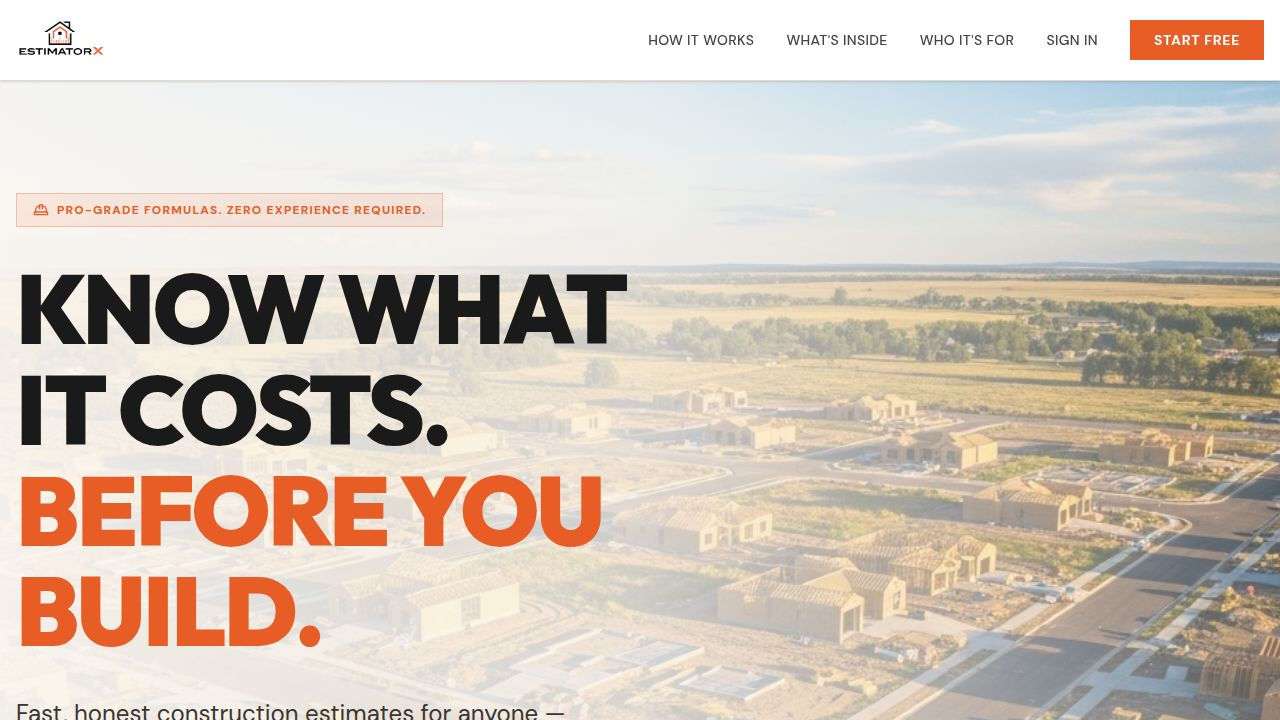
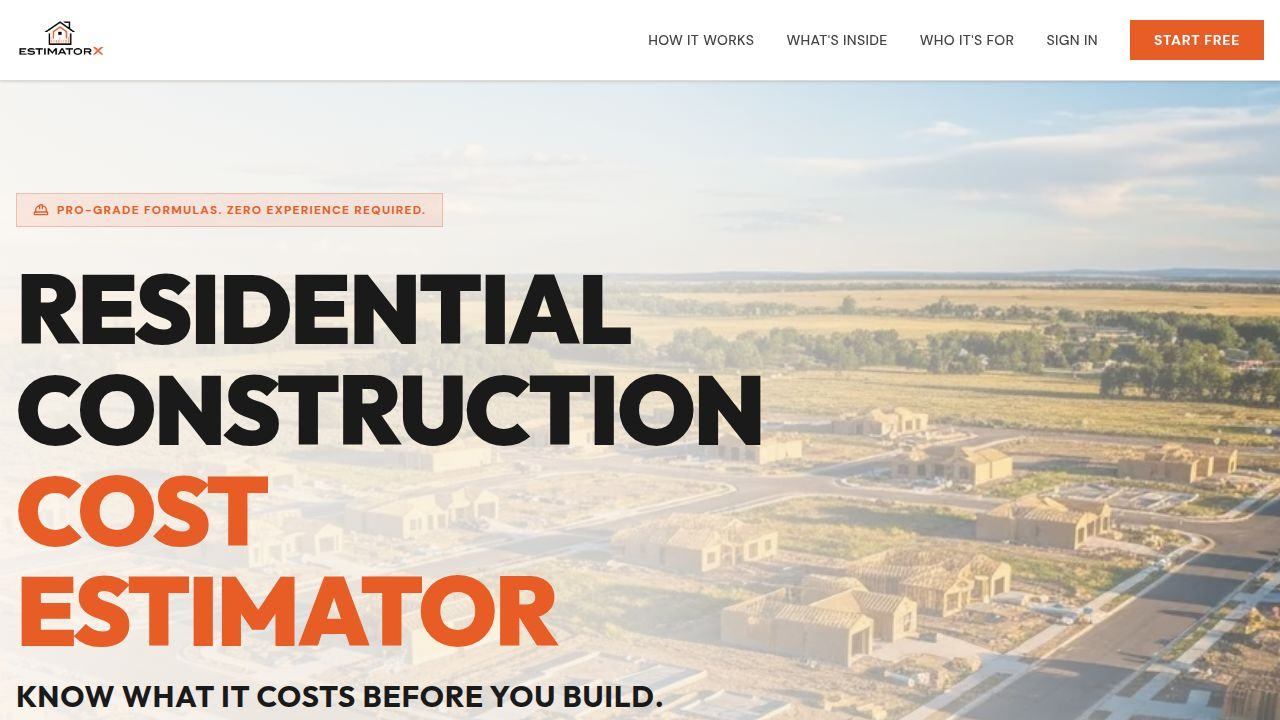
Add privacy policy and terms of use pages to the website
Introduce new routes for `/privacy` and `/terms` in `App.tsx`, add corresponding links in `Home.tsx`, update `sitemap.xml`, and configure production rewrites in `.replit-artifact/artifact.toml`.

Replit-Commit-Author: Agent
Replit-Commit-Session-Id: 35fd20d4-bce7-4242-9382-c4f480dcea7c
Replit-Commit-Checkpoint-Type: full_checkpoint
Replit-Commit-Event-Id: d5b4ff6a-4300-42fe-b2a1-05071733350c
Replit-Commit-Screenshot-Url: https://storage.googleapis.com/screenshot-production-us-central1/ff66d511-2eab-496f-80e5-bc8b0cd5845d/35fd20d4-bce7-4242-9382-c4f480dcea7c/Wzx9fA6
Replit-Helium-Checkpoint-Created: true

Changed region(s): [[0.0, 0.3361, 1.0, 1.0], [0.8438, 0.2444, 0.875, 0.275]]

diff --git a/artifacts/estimatorx/src/pages/PrivacyPolicy.tsx b/artifacts/estimatorx/src/pages/PrivacyPolicy.tsx
@@ -1,0 +1,138 @@
+import { Link } from "wouter";
+
+const EFFECTIVE = "June 5, 2026";
+const CONTACT = "[email redacted]";
+const DOMAIN = "https://estimatorx.pro";
+
+function Section({ title, children }: { title: string; children: React.ReactNode }) {
+  return (
+    <div className="mb-10">
+      <h2 className="text-xl font-black font-serif uppercase mb-4 text-[#1A1A1A] border-l-4 border-[#E85D26] pl-4">{title}</h2>
+      <div className="text-[#3A3530] leading-relaxed space-y-4">{children}</div>
+    </div>
+  );
+}
+
+export default function PrivacyPolicy() {
+  return (
+    <div className="min-h-[100dvh] bg-[#F7F4F0] text-[#1A1A1A]">
+
+      {/* Header */}
+      <header className="sticky top-0 z-50 w-full border-b border-[#E0DAD3] bg-white shadow-sm">
+        <div className="container mx-auto px-4 h-20 flex items-center justify-between">
+          <Link href="/">
+            <img src="/logo.png" alt="EstimatorX.pro Logo" className="h-16 object-contain" />
+          </Link>
+          <Link href="/" className="text-sm font-bold uppercase tracking-wider text-[#444] hover:text-[#E85D26] transition-colors">
+            ← Back to Home
+          </Link>
+        </div>
+      </header>
+
+      <main className="container mx-auto px-4 py-16 max-w-3xl">
+
+        {/* Title block */}
+        <div className="mb-12">
+          <div className="flex items-center gap-3 mb-4">
+            <div className="w-12 h-[2px] bg-[#E85D26]" />
+            <span className="text-[#E85D26] font-bold uppercase tracking-widest text-sm">Legal</span>
+          </div>
+          <h1 className="text-4xl md:text-5xl font-black font-serif uppercase mb-4">Privacy Policy</h1>
+          <p className="text-[#888] text-sm">Effective Date: {EFFECTIVE} &nbsp;·&nbsp; <a href={DOMAIN} className="text-[#E85D26] hover:underline">{DOMAIN}</a></p>
+        </div>
+
+        <div className="bg-white border border-[#E0DAD3] p-8 md:p-12">
+
+          <p className="text-[#3A3530] leading-relaxed mb-10">
+            EstimatorX.pro ("we," "us," or "our") is committed to protecting your privacy. This Privacy Policy explains what information we collect, how we use it, and what rights you have regarding your data when you use our website and construction estimating application at <a href={DOMAIN} className="text-[#E85D26] hover:underline">{DOMAIN}</a>.
+          </p>
+
+          <Section title="1. Information We Collect">
+            <p><strong>Account information.</strong> When you sign up, we collect your email address through our authentication provider (Clerk). We do not store passwords — all sign-ins use a one-time email code.</p>
+            <p><strong>Estimate data.</strong> The estimates you create are stored in our database (PostgreSQL) and in your browser's local storage. This includes project dimensions, material quantities, labor rates, and any custom line items you enter.</p>
+            <p><strong>Payment information.</strong> If you purchase a print credit ($0.99) or subscribe to the X Plan ($9.99/mo), payment is processed by Stripe. We do not store your credit card number, card number, or any payment credentials — Stripe handles all payment data under their own privacy policy.</p>
+            <p><strong>Usage data.</strong> We may collect basic usage information such as pages visited, features used, and error logs to improve the application. This data is not sold or shared with third parties for advertising purposes.</p>
+          </Section>
+
+          <Section title="2. How We Use Your Information">
+            <ul className="list-disc pl-6 space-y-2">
+              <li>To create and manage your account</li>
+              <li>To save, retrieve, and sync your estimates</li>
+              <li>To process payments and manage your subscription</li>
+              <li>To send transactional emails (e.g., one-time sign-in codes)</li>
+              <li>To respond to support requests and feedback</li>
+              <li>To improve and maintain the application</li>
+            </ul>
+            <p>We do not sell your personal data. We do not use your data for advertising or share it with marketing third parties.</p>
+          </Section>
+
+          <Section title="3. Third-Party Services">
+            <p>We use the following third-party services to operate EstimatorX.pro:</p>
+            <ul className="list-disc pl-6 space-y-2">
+              <li><strong>Clerk</strong> — authentication and user account management (<a href="https://clerk.com/privacy" className="text-[#E85D26] hover:underline" target="_blank" rel="noopener noreferrer">clerk.com/privacy</a>)</li>
+              <li><strong>Stripe</strong> — payment processing (<a href="https://stripe.com/privacy" className="text-[#E85D26] hover:underline" target="_blank" rel="noopener noreferrer">stripe.com/privacy</a>)</li>
+              <li><strong>Replit</strong> — application hosting and infrastructure</li>
+            </ul>
+            <p>Each of these providers has their own privacy policy governing how they handle your data.</p>
+          </Section>
+
+          <Section title="4. Data Retention">
+            <p>We retain your account and estimate data as long as your account remains active. If you delete your account, we will delete your personal data and stored estimates within 30 days, except where retention is required by law.</p>
+            <p>Stripe retains payment records according to their own data retention policies and applicable financial regulations.</p>
+          </Section>
+
+          <Section title="5. Cookies and Local Storage">
+            <p>EstimatorX.pro uses browser local storage to cache your estimate inputs between sessions. This data stays on your device and is not shared with third parties.</p>
+            <p>We may use cookies to maintain your authenticated session. These are session-only cookies necessary for the application to function and are not used for tracking or advertising.</p>
+          </Section>
+
+          <Section title="6. Your Rights">
+            <p>Depending on your location, you may have the right to:</p>
+            <ul className="list-disc pl-6 space-y-2">
+              <li>Access the personal data we hold about you</li>
+              <li>Request correction of inaccurate data</li>
+              <li>Request deletion of your account and data</li>
+              <li>Object to or restrict certain processing activities</li>
+            </ul>
+            <p>To exercise any of these rights, contact us at <a href={`mailto:${CONTACT}`} className="text-[#E85D26] hover:underline">{CONTACT}</a>.</p>
+          </Section>
+
+          <Section title="7. Children's Privacy">
+            <p>EstimatorX.pro is not intended for use by anyone under the age of 13. We do not knowingly collect personal information from children. If you believe a child has provided us with personal information, please contact us and we will promptly delete it.</p>
+          </Section>
+
+          <Section title="8. Security">
+            <p>We take reasonable technical and organizational measures to protect your data, including encrypted connections (HTTPS), database access controls, and industry-standard authentication. No system is completely secure, and we cannot guarantee absolute security.</p>
+          </Section>
+
+          <Section title="9. Changes to This Policy">
+            <p>We may update this Privacy Policy from time to time. When we make material changes, we will update the effective date at the top of this page. Continued use of the service after changes are posted constitutes your acceptance of the revised policy.</p>
+          </Section>
+
+          <Section title="10. Contact Us">
+            <p>If you have questions or concerns about this Privacy Policy or how we handle your data, please contact us at:</p>
+            <div className="bg-[#FAF8F5] border border-[#E0DAD3] p-4 mt-2">
+              <p className="font-bold">EstimatorX.pro</p>
+              <p><a href={`mailto:${CONTACT}`} className="text-[#E85D26] hover:underline">{CONTACT}</a></p>
+              <p><a href={DOMAIN} className="text-[#E85D26] hover:underline">{DOMAIN}</a></p>
+            </div>
+          </Section>
+
+        </div>
+
+        <div className="mt-8 flex gap-6 text-sm text-[#888]">
+          <Link href="/terms" className="hover:text-[#E85D26] transition-colors">Terms of Use</Link>
+          <Link href="/" className="hover:text-[#E85D26] transition-colors">Back to Home</Link>
+        </div>
+
+      </main>
+
+      <footer className="bg-[#2C2825] py-8 border-t border-black/20 mt-16">
+        <div className="container mx-auto px-4 text-center text-[#A09890] text-sm">
+          &copy; {new Date().getFullYear()} EstimatorX.pro. All rights reserved.
+        </div>
+      </footer>
+
+    </div>
+  );
+}

diff --git a/artifacts/estimatorx/src/pages/TermsOfUse.tsx b/artifacts/estimatorx/src/pages/TermsOfUse.tsx
@@ -1,0 +1,133 @@
+import { Link } from "wouter";
+
+const EFFECTIVE = "June 5, 2026";
+const CONTACT = "[email redacted]";
+const DOMAIN = "https://estimatorx.pro";
+
+function Section({ title, children }: { title: string; children: React.ReactNode }) {
+  return (
+    <div className="mb-10">
+      <h2 className="text-xl font-black font-serif uppercase mb-4 text-[#1A1A1A] border-l-4 border-[#E85D26] pl-4">{title}</h2>
+      <div className="text-[#3A3530] leading-relaxed space-y-4">{children}</div>
+    </div>
+  );
+}
+
+export default function TermsOfUse() {
+  return (
+    <div className="min-h-[100dvh] bg-[#F7F4F0] text-[#1A1A1A]">
+
+      {/* Header */}
+      <header className="sticky top-0 z-50 w-full border-b border-[#E0DAD3] bg-white shadow-sm">
+        <div className="container mx-auto px-4 h-20 flex items-center justify-between">
+          <Link href="/">
+            <img src="/logo.png" alt="EstimatorX.pro Logo" className="h-16 object-contain" />
+          </Link>
+          <Link href="/" className="text-sm font-bold uppercase tracking-wider text-[#444] hover:text-[#E85D26] transition-colors">
+            ← Back to Home
+          </Link>
+        </div>
+      </header>
+
+      <main className="container mx-auto px-4 py-16 max-w-3xl">
+
+        {/* Title block */}
+        <div className="mb-12">
+          <div className="flex items-center gap-3 mb-4">
+            <div className="w-12 h-[2px] bg-[#E85D26]" />
+            <span className="text-[#E85D26] font-bold uppercase tracking-widest text-sm">Legal</span>
+          </div>
+          <h1 className="text-4xl md:text-5xl font-black font-serif uppercase mb-4">Terms of Use</h1>
+          <p className="text-[#888] text-sm">Effective Date: {EFFECTIVE} &nbsp;·&nbsp; <a href={DOMAIN} className="text-[#E85D26] hover:underline">{DOMAIN}</a></p>
+        </div>
+
+        <div className="bg-white border border-[#E0DAD3] p-8 md:p-12">
+
+          <p className="text-[#3A3530] leading-relaxed mb-10">
+            These Terms of Use ("Terms") govern your access to and use of EstimatorX.pro ("Service," "we," "us," or "our"). By creating an account or using the Service, you agree to be bound by these Terms. If you do not agree, do not use the Service.
+          </p>
+
+          <Section title="1. Use of the Service">
+            <p>EstimatorX.pro provides a construction cost estimating tool for personal and professional use. You may use the Service to generate material and labor estimates for construction projects.</p>
+            <p>You agree not to:</p>
+            <ul className="list-disc pl-6 space-y-2">
+              <li>Use the Service for any unlawful purpose or in violation of any applicable regulations</li>
+              <li>Attempt to reverse-engineer, scrape, or copy the underlying formulas, data, or software</li>
+              <li>Share your account credentials with others</li>
+              <li>Use automated scripts or bots to access the Service</li>
+              <li>Interfere with or disrupt the integrity or performance of the Service</li>
+            </ul>
+          </Section>
+
+          <Section title="2. Accounts">
+            <p>To access most features, you must create an account using your email address. You are responsible for keeping your account secure and for all activity that occurs under your account.</p>
+            <p>We reserve the right to suspend or terminate accounts that violate these Terms or are used for fraudulent activity.</p>
+          </Section>
+
+          <Section title="3. Payments and Subscriptions">
+            <p><strong>One-time print credits.</strong> A $0.99 fee is charged each time a free-tier user generates a print or PDF export of an estimate. This is a non-refundable one-time charge processed via Stripe.</p>
+            <p><strong>X Plan subscription.</strong> The X Plan is a monthly subscription at $9.99/month that includes unlimited project saves, PDF plan import, shareable estimate links, and watermark-free print output. Subscriptions are billed monthly and renew automatically until cancelled.</p>
+            <p><strong>Cancellation.</strong> You may cancel your X Plan subscription at any time from your account settings. Cancellation takes effect at the end of the current billing period — you will retain access through the period you've paid for.</p>
+            <p><strong>Refunds.</strong> All payments are generally non-refundable. If you believe you were charged in error, please contact us at <a href={`mailto:${CONTACT}`} className="text-[#E85D26] hover:underline">{CONTACT}</a> within 14 days of the charge and we will review your request.</p>
+          </Section>
+
+          <Section title="4. Estimates Are for Reference Only">
+            <p>The estimates generated by EstimatorX.pro are based on national average labor rates (RSMeans data) and field-derived material formulas. They are intended as a starting point and rough guide — <strong>not as final bids, binding contracts, or professional engineering opinions.</strong></p>
+            <p>Actual construction costs vary significantly based on local market conditions, site conditions, subcontractor pricing, material availability, and other factors outside our control. We strongly recommend verifying estimates with licensed contractors and suppliers before making financial decisions.</p>
+            <p>EstimatorX.pro is not a licensed contractor, engineer, or architect. Nothing produced by the Service constitutes professional construction advice.</p>
+          </Section>
+
+          <Section title="5. Intellectual Property">
+            <p>All content, formulas, code, design, and branding on EstimatorX.pro are owned by us or our licensors and are protected by applicable intellectual property laws. You may not copy, reproduce, or distribute any part of the Service without our prior written permission.</p>
+            <p>Estimate data and content you create using the Service remains yours. By using the Service, you grant us a limited license to store and display your estimates for the purpose of operating the Service.</p>
+          </Section>
+
+          <Section title="6. Disclaimer of Warranties">
+            <p>The Service is provided "as is" and "as available" without warranties of any kind, express or implied, including but not limited to merchantability, fitness for a particular purpose, or non-infringement.</p>
+            <p>We do not warrant that the Service will be uninterrupted, error-free, or that estimates will be accurate for your specific project or location.</p>
+          </Section>
+
+          <Section title="7. Limitation of Liability">
+            <p>To the fullest extent permitted by law, EstimatorX.pro and its owners, operators, and affiliates shall not be liable for any indirect, incidental, special, consequential, or punitive damages arising from your use of the Service, including but not limited to financial losses resulting from reliance on estimates produced by the Service.</p>
+            <p>Our total liability to you for any claim arising from these Terms or your use of the Service shall not exceed the amount you paid to us in the 12 months preceding the claim.</p>
+          </Section>
+
+          <Section title="8. Privacy">
+            <p>Your use of the Service is also governed by our <Link href="/privacy" className="text-[#E85D26] hover:underline">Privacy Policy</Link>, which is incorporated into these Terms by reference.</p>
+          </Section>
+
+          <Section title="9. Changes to These Terms">
+            <p>We may update these Terms from time to time. When we make material changes, we will update the effective date at the top of this page. Continued use of the Service after changes are posted constitutes your acceptance of the revised Terms.</p>
+          </Section>
+
+          <Section title="10. Governing Law">
+            <p>These Terms are governed by the laws of the United States. Any disputes shall be resolved in accordance with applicable federal and state law.</p>
+          </Section>
+
+          <Section title="11. Contact">
+            <p>Questions about these Terms? Contact us at:</p>
+            <div className="bg-[#FAF8F5] border border-[#E0DAD3] p-4 mt-2">
+              <p className="font-bold">EstimatorX.pro</p>
+              <p><a href={`mailto:${CONTACT}`} className="text-[#E85D26] hover:underline">{CONTACT}</a></p>
+              <p><a href={DOMAIN} className="text-[#E85D26] hover:underline">{DOMAIN}</a></p>
+            </div>
+          </Section>
+
+        </div>
+
+        <div className="mt-8 flex gap-6 text-sm text-[#888]">
+          <Link href="/privacy" className="hover:text-[#E85D26] transition-colors">Privacy Policy</Link>
+          <Link href="/" className="hover:text-[#E85D26] transition-colors">Back to Home</Link>
+        </div>
+
+      </main>
+
+      <footer className="bg-[#2C2825] py-8 border-t border-black/20 mt-16">
+        <div className="container mx-auto px-4 text-center text-[#A09890] text-sm">
+          &copy; {new Date().getFullYear()} EstimatorX.pro. All rights reserved.
+        </div>
+      </footer>
+
+    </div>
+  );
+}

diff --git a/artifacts/estimatorx/src/App.tsx b/artifacts/estimatorx/src/App.tsx
@@ -10,6 +10,8 @@ import Estimator from "@/pages/Estimator";
 import SharedEstimatorPage from "@/pages/SharedEstimatorPage";
 import Admin from "@/pages/Admin";
 import NotFound from "@/pages/not-found";
+import PrivacyPolicy from "@/pages/PrivacyPolicy";
+import TermsOfUse from "@/pages/TermsOfUse";
 import { SubscriptionProvider } from "@/contexts/SubscriptionContext";
 
 const queryClient = new QueryClient();
@@ -345,6 +347,8 @@ function Router() {
       <Route path="/admin" component={Admin} />
       <Route path="/sign-in/*?" component={OTPSignInPage} />
       <Route path="/sign-up/*?" component={OTPSignInPage} />
+      <Route path="/privacy" component={PrivacyPolicy} />
+      <Route path="/terms" component={TermsOfUse} />
       <Route component={NotFound} />
     </Switch>
   );

diff --git a/artifacts/estimatorx/src/pages/Home.tsx b/artifacts/estimatorx/src/pages/Home.tsx
@@ -480,6 +480,8 @@ export default function Home() {
           <div className="text-[#A09890] text-sm flex items-center gap-6 flex-wrap justify-center">
             <span>&copy; {new Date().getFullYear()} EstimatorX.pro. All rights reserved.</span>
             <span className="flex items-center gap-1"><Globe size={14} /> Nationwide / Remote</span>
+            <Link href="/privacy" className="hover:text-white transition-colors">Privacy Policy</Link>
+            <Link href="/terms" className="hover:text-white transition-colors">Terms of Use</Link>
           </div>
         </div>
       </footer>